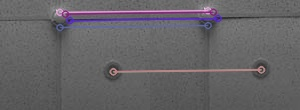
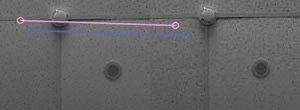
second variant

Changed region(s): [[0.03, 0.0545, 0.75, 0.3545], [0.36, 0.6, 0.9, 0.7091]]

diff --git a/env/main2.py b/env/main2.py
@@ -1,0 +1,160 @@
+import numpy as np
+import cv2
+import matplotlib.pyplot as plt
+
+# Считаем среднее смещение
+def calculate_avg(bias):
+    bias_x_avg = 0
+    bias_y_avg = 0
+
+    for b in bias:
+        bias_x_avg += b[0]
+        bias_y_avg += b[1]
+
+    bias_x_avg /= len(bias)
+    bias_y_avg /= len(bias)
+    return bias_x_avg, bias_y_avg
+
+
+# считаем среднее смещение
+def calculate_bias(coordinates):
+    bias = []
+
+    i = 0
+    for coor in coordinates:
+        x1 = coor[0][0]
+        y1 = coor[0][1]
+        x2 = coor[1][0]
+        y2 = coor[1][1]
+        bias.append([x2 - x1, y2 - y1])
+
+    bias_x_avg, bias_y_avg = calculate_avg(bias)
+
+    return bias_x_avg, bias_y_avg
+
+# рисуем результирующее изображение, на котором отмечаем смещение
+def plot_create_image(data, title, fileName):
+    fig, ax1 = plt.subplots(1, 1)
+
+    im = ax1.imshow(data, interpolation='nearest')
+
+    fg_color = 'black'
+    bg_color = 'white'
+
+    # IMSHOW
+    # устанавилваем цвет заголовка
+    ax1.set_title(title, color=fg_color)
+
+    ax1.patch.set_facecolor(bg_color)
+
+    # установить цвет меток
+    im.axes.tick_params(color=fg_color, labelcolor=fg_color)
+
+    # set imshow outline
+    for spine in im.axes.spines.values():
+        spine.set_edgecolor(fg_color)
+
+    fig.patch.set_facecolor(bg_color)
+    plt.tight_layout()
+    plt.savefig(fileName, dpi=300)
+
+    plt.show()
+    # plt.savefig('save/to/pic.png', dpi=200, facecolor=bg_color)
+
+
+# отрисовываем и сохраняем совмещенное итоговое изображение
+def createImages(img1, img2, coordinates, resultPathName):
+    key_points_1 = []
+    key_points_2 = []
+    allignment_points = []
+
+    i = 0
+    for coor in coordinates:
+        x1 = coor[0][0]
+        y1 = coor[0][1]
+        x2 = coor[1][0]
+        y2 = coor[1][1]
+        key_points_1.append(cv2.KeyPoint(x1, y1, 0))
+        key_points_2.append(cv2.KeyPoint(x2, y2, 0))
+        allignment_points.append([cv2.DMatch(i, i, 0, 57)])
+        i += 1
+
+    # рисуем результат, совмещаем точки первого и второго изображения
+    img_result = cv2.drawMatchesKnn(img1, key_points_1, img2, key_points_2, allignment_points, None,
+                                    flags=cv2.DrawMatchesFlags_NOT_DRAW_SINGLE_POINTS)
+
+    # считаем смещение
+    bias_x_middle, bias_y_middle = calculate_bias(coordinates)
+
+    # заголовок результирующего изображения
+    title = "X: " + str(round(bias_x_middle, 5)) + \
+            " Y: " + str(round(bias_y_middle, 5))
+
+    # рисуем и сохраняем результат
+    plot_create_image(img_result, title, resultPathName)
+
+def loadImage(image_name):
+    img1 = cv2.imread(image_name, cv2.IMREAD_GRAYSCALE)  # first image
+    cap1 = cv2.VideoCapture(image_name)
+    return img1, cap1
+
+
+def main():
+
+    image1_name = 'images/1.jpg'
+    image2_name = 'images/2.jpg'
+
+    img1, cap1 = loadImage(image1_name)
+    img2, cap2 = loadImage(image2_name)
+
+    # параметры углового детектора Ши-Томаси, который
+    # ищет особые точки по которым далее будет рассчитываться оптичискей поток Лукаса-Канаде
+    feature_params = dict(maxCorners=100,
+                          qualityLevel=0.3,
+                          minDistance=7,
+                          blockSize=7)
+
+    # Параметры алгоритма Лукааса - Канаде
+    lk_params = dict(winSize=(15, 15),
+                     maxLevel=2,
+                     criteria=(cv2.TERM_CRITERIA_EPS | cv2.TERM_CRITERIA_COUNT, 10, 0.03))
+
+    # считываем первого изображение
+    ret, old_frame = cap1.read()
+
+    # переводим изображение в грейСкейл (черно-белое)
+    old_gray = cv2.cvtColor(old_frame, cv2.COLOR_BGR2GRAY)
+
+    # находит N сильнейших углов на изображении
+    p0 = cv2.goodFeaturesToTrack(old_gray, mask=None, **feature_params)
+
+    # считываем второе изображение
+    ret, frame = cap2.read()
+
+    # переводим изображение в грейСкейл (черно-белое)
+    frame_gray = cv2.cvtColor(frame, cv2.COLOR_BGR2GRAY)
+
+    # Расчитываем оптический поток методом Лукаса-Канаде
+    p1, st, err = cv2.calcOpticalFlowPyrLK(old_gray, frame_gray, p0, None, **lk_params)
+
+    # Выбираем координаты хороших точек на первом изображении
+    good_old = p0[st == 1]
+
+    # Выбираем координаты хороших точек на втором изображении
+    good_new = p1[st == 1]
+
+    # отображаем смещение изображения
+    draw_points = []  # точки по которым рисуем
+    for i, (new, old) in enumerate(zip(good_new, good_old)):
+        x1, y1 = new.ravel()
+        x2, y2 = old.ravel()
+        draw_points.append([[x1, y1], [x2, y2]])
+        print('(' + str(x1) + ' ; ' + str(y1) + ')' + ' - ' + '(' + str(x2) + ' ; ' + str(y2) + ')')
+
+    #отрисовываем и сохраняем совмещенное итоговое изображение
+    createImages(img1, img2, draw_points, "results/1_2.jpg")
+
+
+
+if __name__ == "__main__":
+    main()

diff --git a/env/main.py b/env/main.py
@@ -1,5 +1,6 @@
-import cv2 as cv
+import cv2
 import matplotlib.pyplot as plt
+
 
 def plot_create_image(data, title, fileName):
     fig, ax1 = plt.subplots(1, 1)
@@ -36,12 +37,12 @@ def var_2(img1_info, img2_info):
     img1_name = img1_info[1]
     img2_name = img2_info[1]
 
-    sift = cv.SIFT_create()
+    sift = cv2.SIFT_create()
 
     key_points_1, des1 = sift.detectAndCompute(img1, None)
     key_points_2, des2 = sift.detectAndCompute(img2, None)
 
-    bf = cv.BFMatcher()
+    bf = cv2.BFMatcher()
     matches = bf.knnMatch(des1, des2, k=2)
 
     good_points = []
@@ -72,8 +73,12 @@ def var_2(img1_info, img2_info):
         bias_y_middle += b[1]
     bias_x_middle /= len(bias)
     bias_y_middle /= len(bias)
-    # cv.drawMatchesKnn expects list of lists as matches.
-    img3 = cv.drawMatchesKnn(img1, key_points_1, img2, key_points_2, good_points, None, flags=cv.DrawMatchesFlags_NOT_DRAW_SINGLE_POINTS)
+    kp_1_test = [cv2.KeyPoint(20, 20, 0), cv2.KeyPoint(30, 30, 0)]
+    kp_2_test = [cv2.KeyPoint(25, 25, 0), cv2.KeyPoint(35, 35, 0)]
+    good_test = [[cv2.DMatch(0, 0, 0, 57)], [cv2.DMatch(1, 1, 0, 25)]]
+    # cv2.drawMatchesKnn expects list of lists as matches.
+    img3 = cv2.drawMatchesKnn(img1, kp_1_test, img2, kp_2_test, good_test, None,
+                              flags=cv2.DrawMatchesFlags_NOT_DRAW_SINGLE_POINTS)
     # plt.imshow(img3)
     # plt.show()
     title = "X: " + str(round(bias_x_middle, 5)) + \
@@ -81,8 +86,9 @@ def var_2(img1_info, img2_info):
     plot_create_image(img3, title, "results/" + img1_name + "_" + img2_name + ".jpg")
     return img3, [bias_x_middle, bias_y_middle]
 
-img1 = cv.imread('images/1.jpg', cv.IMREAD_GRAYSCALE)  # first image
-img2 = cv.imread('images/2.jpg', cv.IMREAD_GRAYSCALE)  # second image
+
+img1 = cv2.imread('images/1.jpg', cv2.IMREAD_GRAYSCALE)  # first image
+img2 = cv2.imread('images/2.jpg', cv2.IMREAD_GRAYSCALE)  # second image
 
 result, bias = var_2([img1, '1'], [img2, '2'])
-cv.imwrite("result.jpg", result)
+cv2.imwrite("result.jpg", result)
